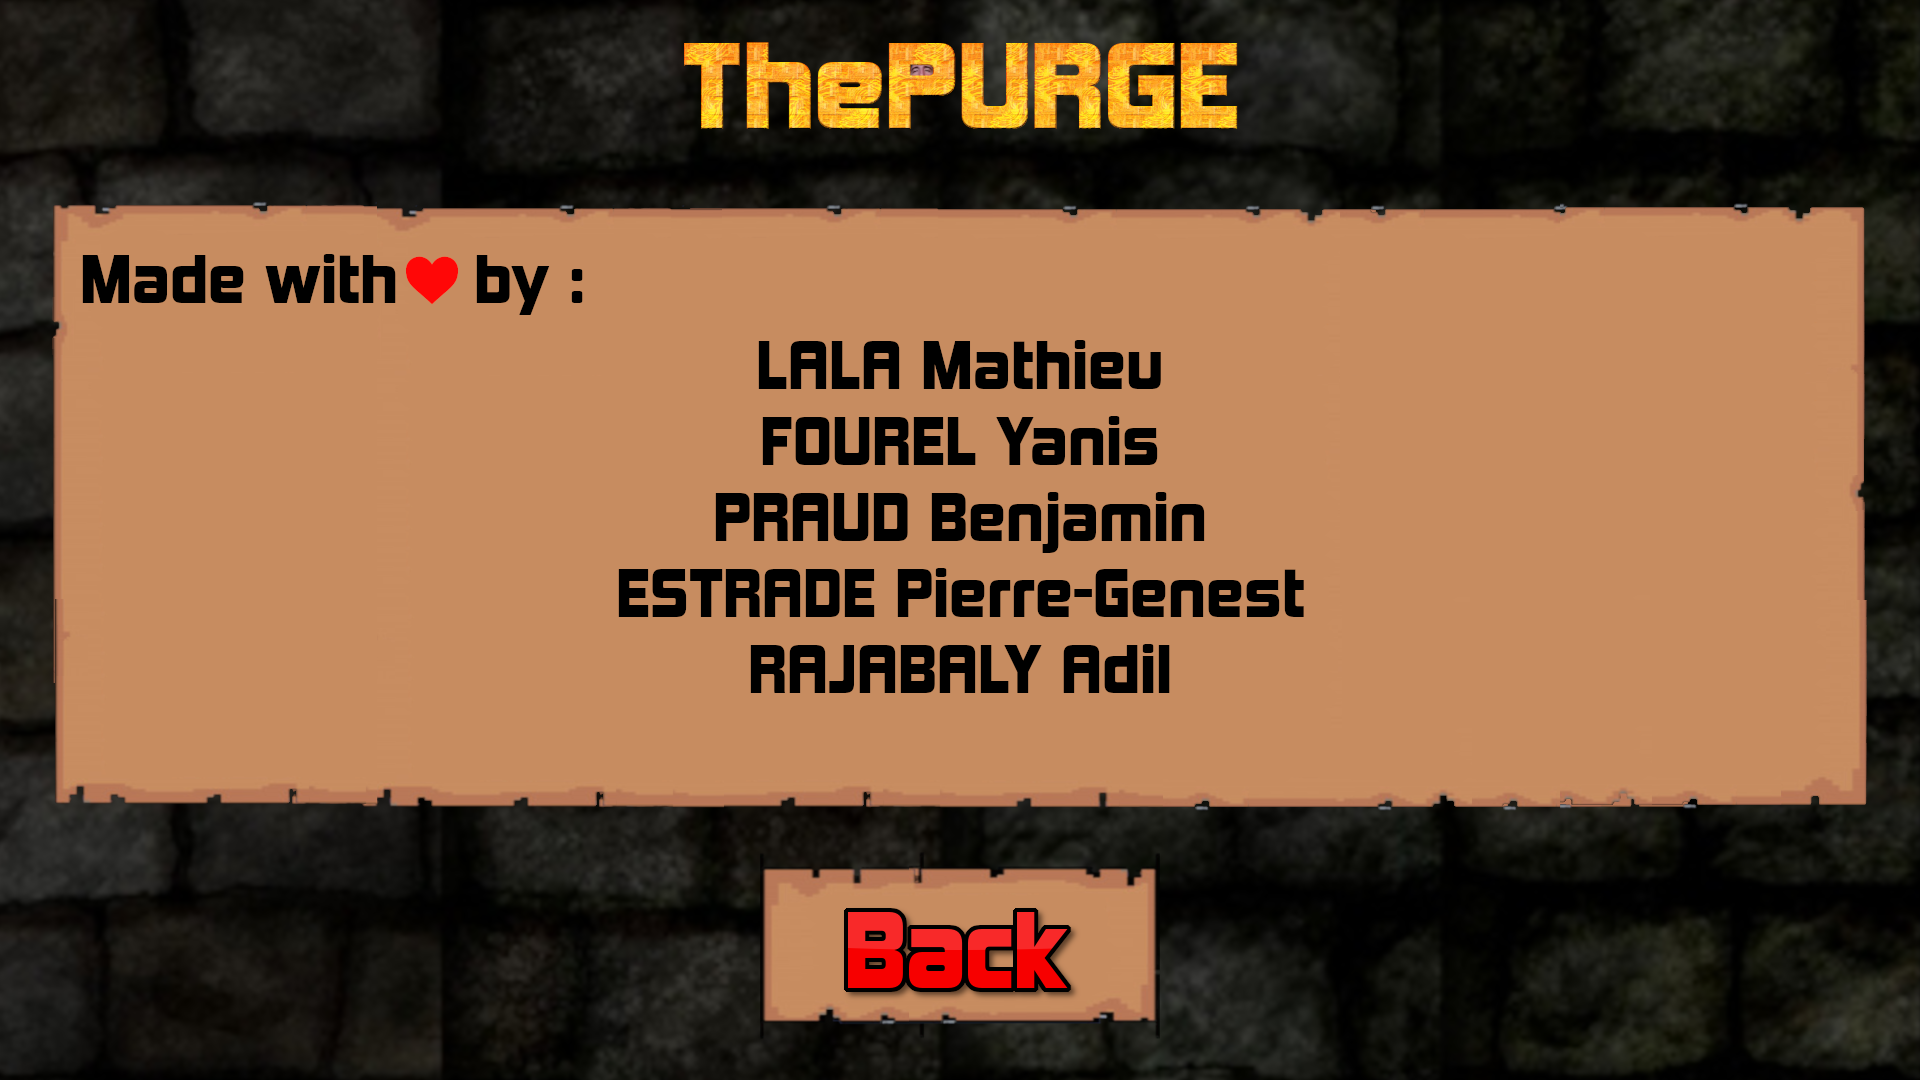
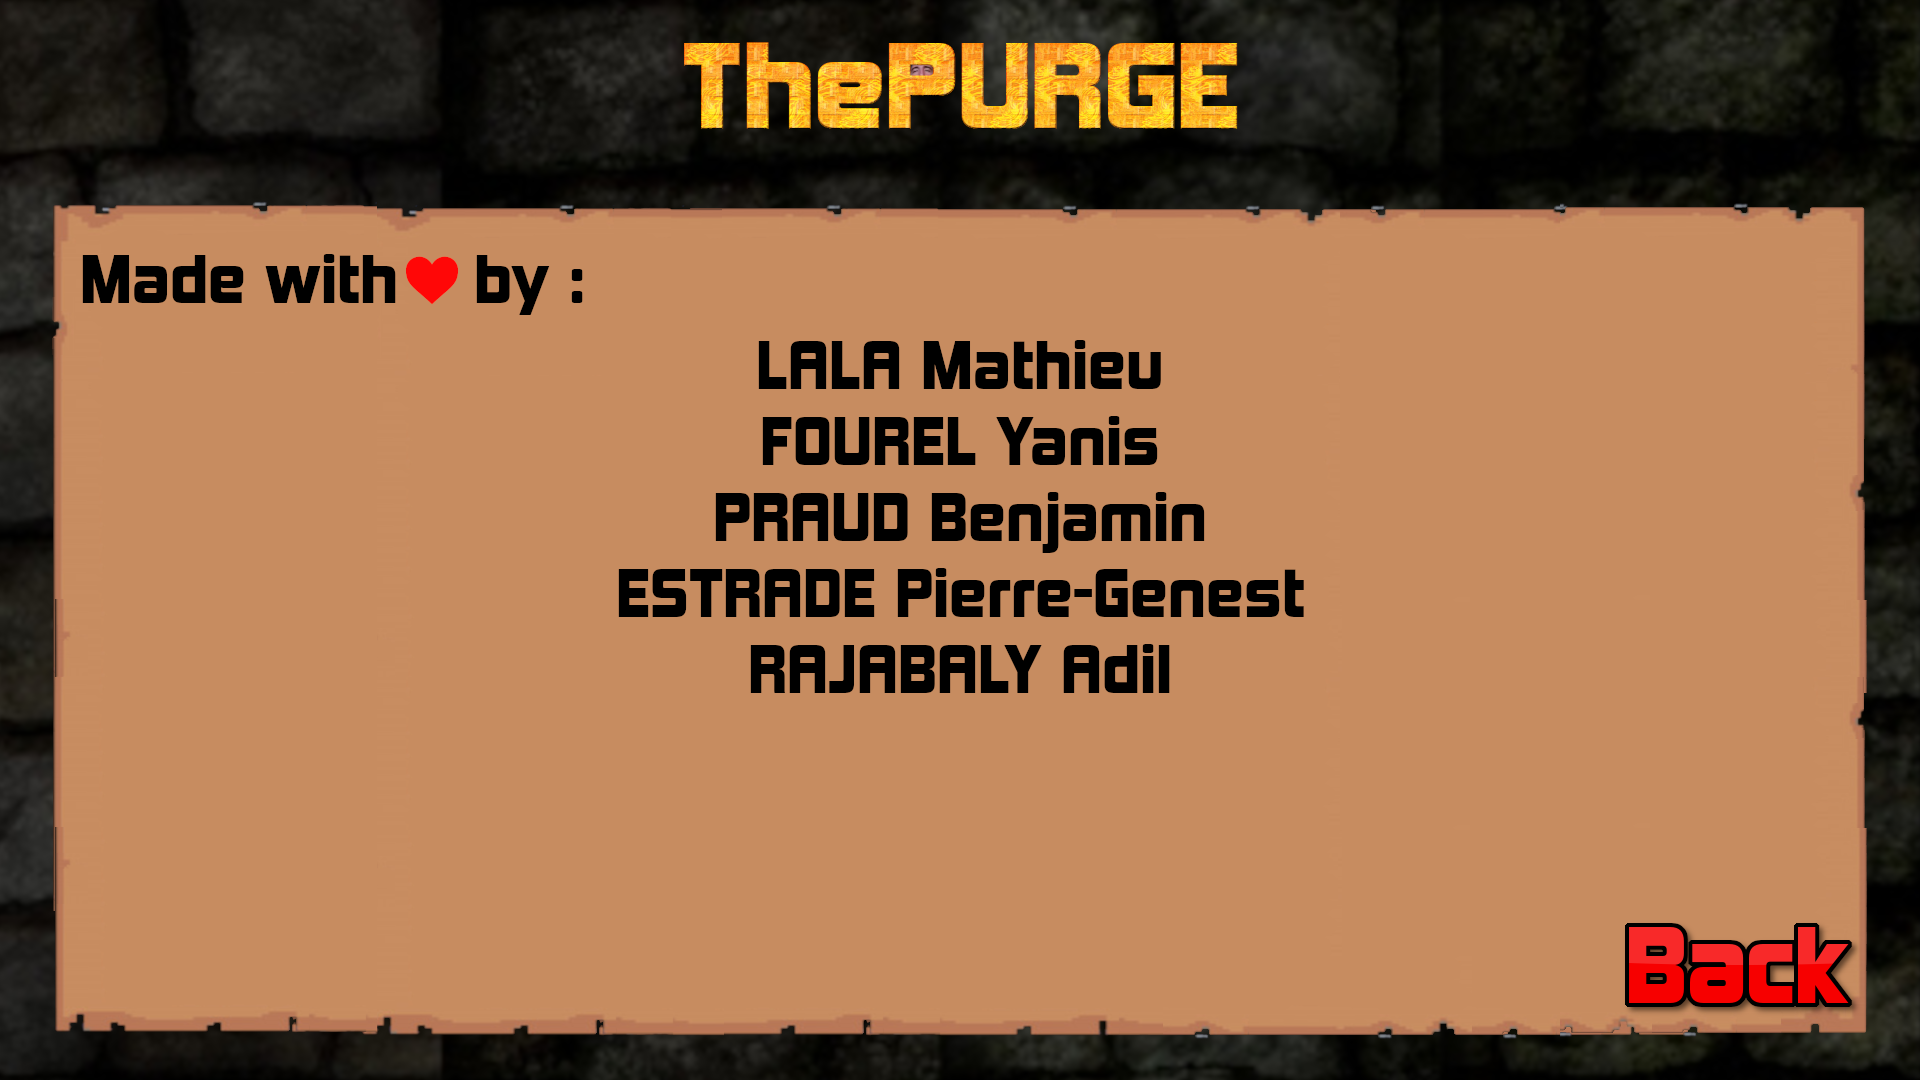
How to play menu + improved menu utils + renamed rules to howtoplay

Changed region(s): [[0.0, 0.7333, 1.0, 0.9778]]

diff --git a/src/Application/src/menu/HowToPlay.cpp b/src/Application/src/menu/HowToPlay.cpp
@@ -1,0 +1,58 @@
+#include <Engine/helpers/TextureLoader.hpp>
+#include <Engine/Core.hpp>
+
+#include "menu/HowToPlay.hpp"
+#include "menu/MainMenu.hpp"
+#include "ThePURGE.hpp"
+
+void game::menu::HowToPlay::create(entt::registry &, ThePURGE &)
+{
+    static auto holder = engine::Core::Holder{};
+
+    const auto &dataFolder = holder.instance->settings().data_folder;
+
+    m_howToPlay = engine::helper::loadTexture(dataFolder + "menus/how_to_play/howtoplay.png");
+    m_controls = engine::helper::loadTexture(dataFolder + "menus/how_to_play/controls.png");
+}
+
+void game::menu::HowToPlay::draw(entt::registry &, ThePURGE &game)
+{
+    ImGui::SetNextWindowPos(ImVec2(0, 0));
+    ImGui::SetNextWindowSize(frac2pixel({1.f, 1.f}));
+    ImGui::Begin("HowToPlay", nullptr, ImGuiWindowFlags_NoDecoration);
+
+    if (right()) m_currentTab = Tab::CONTROLS;
+    if (left()) m_currentTab = Tab::HOW_TO_PLAY;
+
+    switch (m_currentTab) {
+    case Tab::HOW_TO_PLAY: drawTexture(m_howToPlay, ImVec2(0, 0), frac2pixel(ImVec2(1, 1))); break;
+    case Tab::CONTROLS: drawTexture(m_controls, ImVec2(0, 0), frac2pixel(ImVec2(1, 1))); break;
+    }
+
+    ImGui::End();
+
+    if (close()) game.setMenu(std::make_unique<menu::MainMenu>());
+}
+
+void game::menu::HowToPlay::event(entt::registry &, ThePURGE &, const engine::Event &e)
+{
+    std::visit(
+        engine::overloaded{
+            [&](const engine::Pressed<engine::JoystickButton> &joy) {
+                switch (joy.source.button) {
+                case engine::Joystick::ACTION_RIGHT: forceClose(true); break;
+                case engine::Joystick::LS: forceLeft(true); break;
+                case engine::Joystick::RS: forceRight(true); break;
+                default: break;
+                }
+            },
+            [&](const engine::Pressed<engine::Key> &key) {
+                switch (key.source.key) {
+                case GLFW_KEY_ENTER: forceClose(true); break;
+                default: break;
+                }
+            },
+            [&](auto) {},
+        },
+        e);
+}

diff --git a/src/Application/src/menu/MainMenu.cpp b/src/Application/src/menu/MainMenu.cpp
@@ -3,6 +3,7 @@
 
 #include "menu/MainMenu.hpp"
 #include "menu/Credits.hpp"
+#include "menu/HowToPlay.hpp"
 #include "ThePURGE.hpp"
 
 void game::menu::MainMenu::create(entt::registry &, ThePURGE &)
@@ -12,7 +13,7 @@ void game::menu::MainMenu::create(entt::registry &, ThePURGE &)
     const auto &dataFolder = holder.instance->settings().data_folder;
 
 
-    m_backgroundTexture = engine::helper::loadTexture(dataFolder + "menus/main/background.png");
+    m_backgroundTexture = engine::helper::loadTexture(dataFolder + "menus/main/mainmenu.png");
 
     // clang-format off
 
@@ -26,9 +27,9 @@ void game::menu::MainMenu::create(entt::registry &, ThePURGE &)
         .size =     FROM_1080p(229, 155)
     });
         m_buttons.emplace_back(MenuTexture{
-        .id =       TEXTURE("menus/main/btn_rules_selected.png"),
-        .topleft =  FROM_1080p(1218, 442),
-        .size =     FROM_1080p(284, 149)
+        .id =       TEXTURE("menus/main/btn_howtoplay_selected.png"),
+        .topleft =  FROM_1080p(1062, 441),
+        .size =     FROM_1080p(590, 155)
     });
     m_buttons.emplace_back(MenuTexture{
         .id =       TEXTURE("menus/main/btn_credits_selected.png"),
@@ -71,10 +72,9 @@ void game::menu::MainMenu::draw(entt::registry &world, ThePURGE &game)
             game.setMenu(nullptr);
             game.logics()->onGameStart.publish(world);
             return;
-        case Button::RULES:
-            // TODO: rules menu
-            spdlog::info("rules");
-            break;
+        case Button::HOWTOPLAY:
+            game.setMenu(std::make_unique<menu::HowToPlay>());
+            return;
         case Button::CREDITS:
             game.setMenu(std::make_unique<menu::Credits>());
             return;

diff --git a/src/Application/include/menu/AMenu.hpp b/src/Application/include/menu/AMenu.hpp
@@ -33,15 +33,26 @@ protected:
 
 
     //
-    // Input helpers. Should only be read during the draw() function
+    // Input helpers with most common interractions.
+    // Should only be read during the draw() function
     //
     bool up() const noexcept { return m_up; }
     bool down() const noexcept { return m_down; }
     bool right() const noexcept { return m_right; }
     bool left() const noexcept { return m_left; }
-
+    // User closed menu
+    bool close() const noexcept { return m_close; }
     // User selected / clicked on current option
     bool select() const noexcept { return m_select; }
+
+
+    void forceUp(bool val) noexcept { m_up = val; }
+    void forceDown(bool val) noexcept { m_down = val; }
+    void forceLeft(bool val) noexcept { m_left = val; }
+    void forceRight(bool val) noexcept { m_right = val; }
+
+    void forceSelect(bool val) noexcept { m_select = val; }
+    void forceClose(bool val) noexcept { m_close = val; }
 
 
     //
@@ -66,6 +77,7 @@ private:
     bool m_left = false;
     bool m_right = false;
     bool m_select = false;
+    bool m_close = false;
 
     bool m_recoveringUp = false;
     bool m_recoveringDown = false;

diff --git a/src/Application/include/menu/HowToPlay.hpp b/src/Application/include/menu/HowToPlay.hpp
@@ -6,27 +6,22 @@
 
 namespace game::menu {
 
-class MainMenu : public AMenu {
+class HowToPlay : public AMenu {
 public:
     void create(entt::registry &world, ThePURGE &game) final;
     void draw(entt::registry &world, ThePURGE &game) final;
     void event(entt::registry &world, ThePURGE &game, const engine::Event &e) final;
 
 private:
-    enum Button {
-        PLAY = 0,
-        HOWTOPLAY,
-        CREDITS,
-        EXIT,
-
-        MAX // last value, not a real button
+    enum class Tab {
+        HOW_TO_PLAY,
+        CONTROLS
     };
 
+    std::uint32_t m_howToPlay;
+    std::uint32_t m_controls;
 
-    std::uint32_t m_backgroundTexture;
-    std::vector<MenuTexture> m_buttons;
-
-    int m_selected = Button::PLAY;
+    Tab m_currentTab = Tab::HOW_TO_PLAY;
 };
 
 } // namespace game

diff --git a/src/Application/src/menu/Credits.cpp b/src/Application/src/menu/Credits.cpp
@@ -23,7 +23,7 @@ void game::menu::Credits::draw(entt::registry &, ThePURGE & game)
     ImGui::End();
 
 
-    if (select() || m_exit)
+    if (close())
         game.setMenu(std::make_unique<menu::MainMenu>());
 }
 
@@ -33,7 +33,8 @@ void game::menu::Credits::event(entt::registry &, ThePURGE &, const engine::Even
         engine::overloaded{
             [&](const engine::Pressed<engine::JoystickButton> &joy) {
                 switch (joy.source.button) {
-                case engine::Joystick::ACTION_RIGHT: m_exit = true; break;
+                case engine::Joystick::ACTION_RIGHT: forceClose(true); break;
+                case engine::Joystick::ACTION_BOTTOM: forceClose(true); break;
                 default: return;
                 }
             },

diff --git a/src/Application/src/menu/AMenu.cpp b/src/Application/src/menu/AMenu.cpp
@@ -85,6 +85,7 @@ void game::AMenu::onDraw(entt::registry &world, ThePURGE &game)
     m_left = false;
     m_right = false;
     m_select = false;
+    m_close = false;
 }
 
 

diff --git a/src/Application/include/menu/Credits.hpp b/src/Application/include/menu/Credits.hpp
@@ -14,8 +14,6 @@ public:
 
 private:
     std::uint32_t m_texture;
-
-    bool m_exit = false;
 };
 
 } // namespace game
